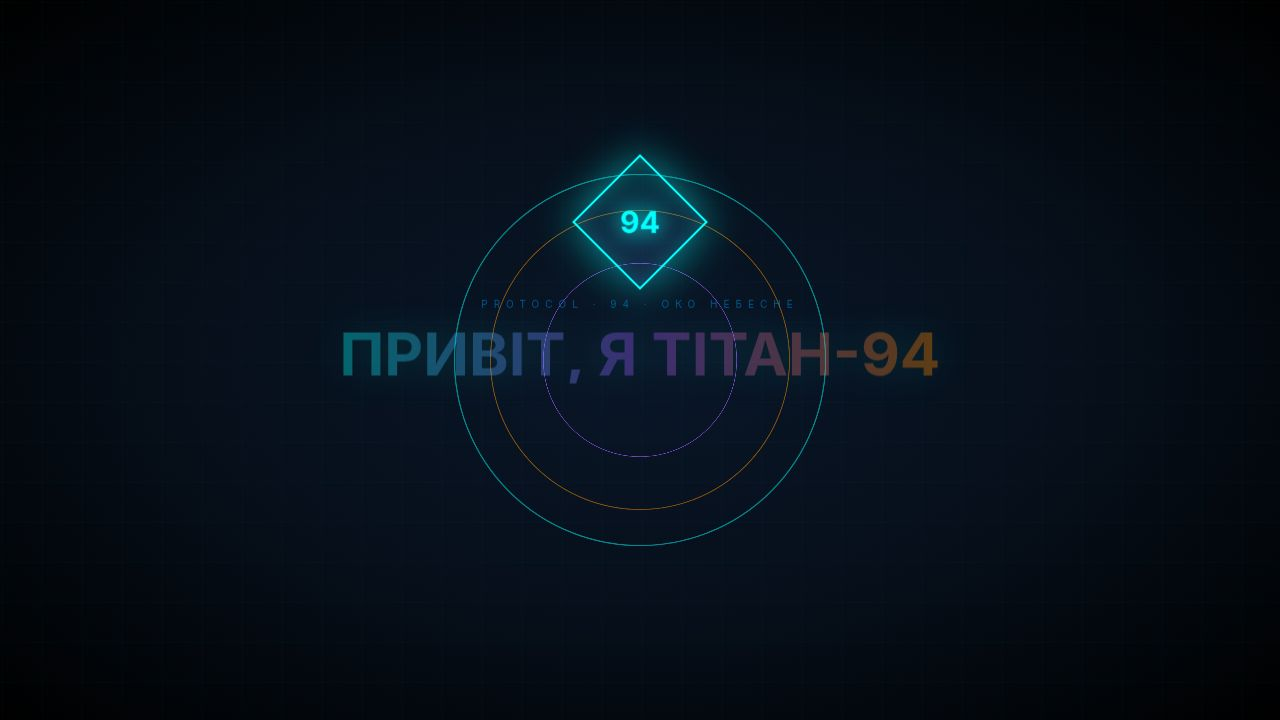
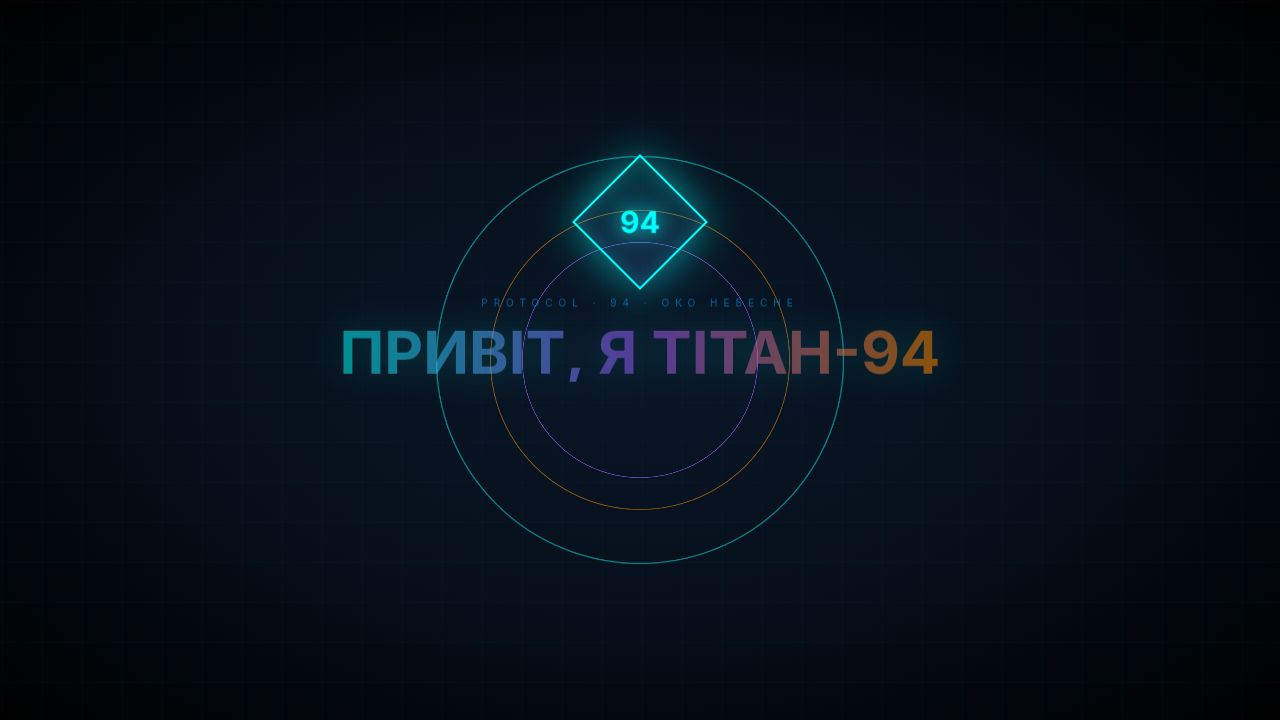
Add theme and language switching options to the interface
Introduce new UI preferences for theme (dark/light) and language (uk/en/ru) with persistent storage and associated toggles in the layout components.

Replit-Commit-Author: Agent
Replit-Commit-Session-Id: e7b6f644-fea6-464c-a664-e5827a0c588f
Replit-Commit-Checkpoint-Type: full_checkpoint
Replit-Commit-Event-Id: 2970895d-d4f5-462f-8d97-51c141f99910
Replit-Commit-Screenshot-Url: https://storage.googleapis.com/screenshot-production-us-central1/0a53e611-9f95-4b85-af95-8bab48ce9b77/e7b6f644-fea6-464c-a664-e5827a0c588f/7yR71xr
Replit-Helium-Checkpoint-Created: true

diff --git a/artifacts/enact-dashboard/src/components/layout.tsx b/artifacts/enact-dashboard/src/components/layout.tsx
@@ -1,49 +1,130 @@
 /**
- * TITAN-94 — Responsive Layout
+ * TITAN-94 — Responsive Layout with theme + language switchers.
  *
- * Desktop (>= md): static left sidebar + main content
- * Mobile (< md):   compact top bar + slide-out drawer (hamburger)
+ * - Desktop (>= md): static left sidebar + main content
+ * - Mobile (< md):   compact top bar + slide-out drawer (hamburger)
+ * - Theme: dark (default) / light, toggled via Sun-Moon button (top-right)
+ * - Language: uk (default) / en / ru, toggled via globe button (top-right)
  *
- * The drawer locks body scroll when open and closes on route change / tap
- * outside, matching native Telegram Mini App expectations.
+ * Both prefs persist in localStorage via lib/ui-prefs.ts.
  */
 import { Link, useLocation } from "wouter";
-import { useEffect, useState } from "react";
+import { useEffect, useRef, useState } from "react";
 import {
   Activity, Briefcase, PlusCircle, ExternalLink,
   Eye, Shield, DollarSign, Brain, Heart, FileCode, Cpu,
   Dna, BarChart3, Sparkles, Bot, Code2, TrendingUp, Key, KeyRound, Crown,
-  Menu, X,
+  Menu, X, Sun, Moon, Languages,
 } from "lucide-react";
 import { cn } from "@/lib/utils";
+import { useTheme, useLang, t, type Lang } from "@/lib/ui-prefs";
 
-const NAV_ITEMS = [
-  { href: "/",          label: "Command Center",  icon: Cpu,        group: "TITAN-94" },
-  { href: "/threats",   label: "Threats",         icon: Shield,     group: "TITAN-94" },
-  { href: "/contracts", label: "Smart Contracts", icon: FileCode,   group: "TITAN-94" },
-  { href: "/analyze",   label: "Neural Hub",      icon: Brain,      group: "TITAN-94" },
-  { href: "/evolution", label: "Evolution",       icon: Dna,        group: "TITAN-94" },
-  { href: "/immune",    label: "Immune System",   icon: Heart,      group: "TITAN-94" },
-  { href: "/analytics", label: "Analytics",       icon: BarChart3,  group: "TITAN-94" },
-  { href: "/status",    label: "Agent Status",    icon: Eye,        group: "TITAN-94" },
-  { href: "/earn",      label: "Earnings",        icon: DollarSign, group: "TITAN-94" },
-  { href: "/autotrade", label: "Auto-Trade",      icon: TrendingUp, group: "AGENT" },
-  { href: "/builder",   label: "Agent Forge",     icon: Bot,        group: "AGENT" },
-  { href: "/developer", label: "Developer Mode",  icon: Code2,      group: "AGENT" },
-  { href: "/nexus",     label: "NEXUS AI",        icon: Sparkles,   group: "AGENT" },
-  { href: "/settings",  label: "API Vault",       icon: Key,        group: "AGENT" },
-  { href: "/vault",     label: "Mobile Vault",    icon: KeyRound,   group: "AGENT" },
-  { href: "/access",    label: "Access Tiers",    icon: Crown,      group: "AGENT" },
-  { href: "/enact",     label: "ENACT Overview",  icon: Activity,   group: "ENACT" },
-  { href: "/jobs",      label: "Job Explorer",    icon: Briefcase,  group: "ENACT" },
-  { href: "/create",    label: "Create Job",      icon: PlusCircle, group: "ENACT" },
+type NavItem = { href: string; tkey: string; icon: typeof Cpu; group: "titan" | "agent" | "enact" };
+
+const NAV_ITEMS: NavItem[] = [
+  { href: "/",          tkey: "nav.command",   icon: Cpu,        group: "titan" },
+  { href: "/threats",   tkey: "nav.threats",   icon: Shield,     group: "titan" },
+  { href: "/contracts", tkey: "nav.contracts", icon: FileCode,   group: "titan" },
+  { href: "/analyze",   tkey: "nav.analyze",   icon: Brain,      group: "titan" },
+  { href: "/evolution", tkey: "nav.evolution", icon: Dna,        group: "titan" },
+  { href: "/immune",    tkey: "nav.immune",    icon: Heart,      group: "titan" },
+  { href: "/analytics", tkey: "nav.analytics", icon: BarChart3,  group: "titan" },
+  { href: "/status",    tkey: "nav.status",    icon: Eye,        group: "titan" },
+  { href: "/earn",      tkey: "nav.earn",      icon: DollarSign, group: "titan" },
+  { href: "/autotrade", tkey: "nav.autotrade", icon: TrendingUp, group: "agent" },
+  { href: "/builder",   tkey: "nav.builder",   icon: Bot,        group: "agent" },
+  { href: "/developer", tkey: "nav.developer", icon: Code2,      group: "agent" },
+  { href: "/nexus",     tkey: "nav.nexus",     icon: Sparkles,   group: "agent" },
+  { href: "/settings",  tkey: "nav.settings",  icon: Key,        group: "agent" },
+  { href: "/vault",     tkey: "nav.vault",     icon: KeyRound,   group: "agent" },
+  { href: "/access",    tkey: "nav.access",    icon: Crown,      group: "agent" },
+  { href: "/enact",     tkey: "nav.enact",     icon: Activity,   group: "enact" },
+  { href: "/jobs",      tkey: "nav.jobs",      icon: Briefcase,  group: "enact" },
+  { href: "/create",    tkey: "nav.create",    icon: PlusCircle, group: "enact" },
 ];
 
-const groups = [...new Set(NAV_ITEMS.map(n => n.group))];
+const GROUP_KEYS = { titan: "group.titan", agent: "group.agent", enact: "group.enact" } as const;
+const GROUPS = ["titan", "agent", "enact"] as const;
+
+/* ── Top-right control cluster: Theme + Language ─────────────────────── */
+function PrefsCluster({ compact = false }: { compact?: boolean }) {
+  const { theme, toggle } = useTheme();
+  const { lang, setLang } = useLang();
+  const [open, setOpen] = useState(false);
+  const ref = useRef<HTMLDivElement>(null);
+
+  useEffect(() => {
+    if (!open) return;
+    const onClick = (e: MouseEvent) => {
+      if (ref.current && !ref.current.contains(e.target as Node)) setOpen(false);
+    };
+    document.addEventListener("mousedown", onClick);
+    return () => document.removeEventListener("mousedown", onClick);
+  }, [open]);
+
+  const langs: { code: Lang; label: string; flag: string }[] = [
+    { code: "uk", label: "Українська", flag: "UA" },
+    { code: "en", label: "English",    flag: "EN" },
+    { code: "ru", label: "Русский",    flag: "RU" },
+  ];
+  const currentFlag = langs.find(l => l.code === lang)?.flag ?? "UA";
+
+  const btnSize = compact ? "p-1.5" : "p-2";
+  const iconSize = compact ? "w-4 h-4" : "w-4 h-4";
+
+  return (
+    <div className="flex items-center gap-1" ref={ref}>
+      {/* Theme toggle */}
+      <button onClick={toggle}
+        className={`${btnSize} rounded border transition-colors`}
+        style={{
+          borderColor: "rgba(0,255,255,0.3)",
+          color: "var(--titan-primary, #00FFFF)",
+          background: "transparent",
+        }}
+        aria-label={t("btn.theme", lang)}
+        title={t("btn.theme", lang)}>
+        {theme === "dark" ? <Sun className={iconSize} /> : <Moon className={iconSize} />}
+      </button>
+
+      {/* Language picker */}
+      <div className="relative">
+        <button onClick={() => setOpen(o => !o)}
+          className={`${btnSize} rounded border transition-colors flex items-center gap-1`}
+          style={{
+            borderColor: "rgba(0,255,255,0.3)",
+            color: "var(--titan-primary, #00FFFF)",
+            background: "transparent",
+          }}
+          aria-label={t("btn.lang", lang)}
+          title={t("btn.lang", lang)}>
+          <Languages className={iconSize} />
+          <span className="text-[10px] font-bold tracking-wider">{currentFlag}</span>
+        </button>
+        {open && (
+          <div className="absolute right-0 top-full mt-1 z-[100] min-w-[140px] border shadow-lg"
+            style={{ background: "#060F1A", borderColor: "rgba(0,255,255,0.3)" }}>
+            {langs.map(l => (
+              <button key={l.code}
+                onClick={() => { setLang(l.code); setOpen(false); }}
+                className="w-full text-left px-3 py-2 text-xs flex items-center gap-2 hover:bg-cyan-400/10 transition-colors"
+                style={{ color: l.code === lang ? "#00FFFF" : "rgba(207,255,255,0.7)" }}>
+                <span className="font-bold tracking-wider w-6">{l.flag}</span>
+                <span>{l.label}</span>
+                {l.code === lang && <span className="ml-auto text-[10px]">✓</span>}
+              </button>
+            ))}
+          </div>
+        )}
+      </div>
+    </div>
+  );
+}
 
 export function Layout({ children }: { children: React.ReactNode }) {
   const [location] = useLocation();
   const [drawerOpen, setDrawerOpen] = useState(false);
+  const { lang } = useLang();
 
   // Close drawer on route change
   useEffect(() => { setDrawerOpen(false); }, [location]);
@@ -60,25 +141,25 @@ export function Layout({ children }: { children: React.ReactNode }) {
       <div className="h-14 flex items-center px-5 border-b shrink-0" style={{ borderColor: "rgba(0,255,255,0.15)" }}>
         <div className="flex flex-col">
           <span className="text-base font-bold leading-tight" style={{ color: "#00FFFF" }}>◈ TITAN-94</span>
-          <span className="text-[9px] tracking-widest" style={{ color: "rgba(0,255,255,0.4)" }}>SECURITY CORE</span>
+          <span className="text-[9px] tracking-widest" style={{ color: "rgba(0,255,255,0.4)" }}>{t("tag.security", lang)}</span>
         </div>
         <div className="ml-auto flex items-center gap-1">
           <span className="w-2 h-2 rounded-full animate-pulse" style={{ background: "#00FF88" }} />
-          <span className="text-xs" style={{ color: "#00FF88" }}>LIVE</span>
+          <span className="text-xs" style={{ color: "#00FF88" }}>{t("tag.live", lang)}</span>
         </div>
         {/* Close button (only mobile drawer) */}
         <button onClick={() => setDrawerOpen(false)}
           className="md:hidden ml-2 p-1.5 -mr-1 rounded text-cyan-400/70 hover:text-cyan-300 hover:bg-cyan-400/10"
-          aria-label="Закрити меню">
+          aria-label={t("btn.menu_close", lang)}>
           <X className="w-5 h-5" />
         </button>
       </div>
 
       <nav className="flex-1 py-3 px-2 overflow-y-auto">
-        {groups.map(group => (
+        {GROUPS.map(group => (
           <div key={group} className="mb-4">
             <div className="px-3 mb-1 text-xs font-bold tracking-widest" style={{ color: "rgba(0,255,255,0.4)" }}>
-              ── {group} ──
+              ── {t(GROUP_KEYS[group], lang)} ──
             </div>
             {NAV_ITEMS.filter(n => n.group === group).map(item => {
               const isActive = location === item.href || (item.href !== "/" && location.startsWith(item.href));
@@ -96,7 +177,7 @@ export function Layout({ children }: { children: React.ReactNode }) {
                   }}
                 >
                   <Icon className="w-4 h-4 shrink-0" />
-                  {item.label}
+                  {t(item.tkey, lang)}
                 </Link>
               );
             })}
@@ -105,7 +186,7 @@ export function Layout({ children }: { children: React.ReactNode }) {
       </nav>
 
       <div className="p-4 border-t text-xs shrink-0" style={{ borderColor: "rgba(0,255,255,0.15)" }}>
-        <div className="mb-2" style={{ color: "rgba(0,255,255,0.4)" }}>── CONTRACTS ──</div>
+        <div className="mb-2" style={{ color: "rgba(0,255,255,0.4)" }}>── {t("tag.contracts", lang)} ──</div>
         <div className="space-y-1">
           <a href="https://tonviewer.com/EQAFHodWCzrYJTbrbJp1lMDQLfypTHoJCd0UcerjsdxPECjX"
             target="_blank" rel="noreferrer"
@@ -123,7 +204,7 @@ export function Layout({ children }: { children: React.ReactNode }) {
         <div className="mt-3" style={{ color: "rgba(207,255,255,0.4)", fontSize: "10px" }}>
           <div className="flex items-center gap-1">
             <span className="w-1.5 h-1.5 rounded-full inline-block" style={{ background: "#00FF88" }} />
-            <span>ORGANISM ONLINE</span>
+            <span>{t("tag.organism", lang)}</span>
           </div>
           <div className="opacity-60 mt-1">Gemini 2.5 Flash · 4 Engines</div>
           <div className="opacity-60">Active</div>
@@ -164,21 +245,30 @@ export function Layout({ children }: { children: React.ReactNode }) {
       <main className="flex-1 flex flex-col h-screen overflow-hidden min-w-0" style={{ background: "#030D18" }}>
 
         {/* MOBILE TOP BAR */}
-        <div className="md:hidden h-12 flex items-center px-3 border-b shrink-0 z-40"
+        <div className="md:hidden h-12 flex items-center px-3 border-b shrink-0 z-40 gap-2"
           style={{ background: "#060F1A", borderColor: "rgba(0,255,255,0.15)" }}>
           <button onClick={() => setDrawerOpen(true)}
             className="p-2 -ml-1 rounded text-cyan-400 hover:bg-cyan-400/10"
-            aria-label="Відкрити меню">
+            aria-label={t("btn.menu_open", lang)}>
             <Menu className="w-5 h-5" />
           </button>
-          <div className="ml-2 flex flex-col">
+          <div className="flex flex-col">
             <span className="text-sm font-bold leading-none" style={{ color: "#00FFFF" }}>◈ TITAN-94</span>
-            <span className="text-[8px] tracking-widest leading-tight mt-0.5" style={{ color: "rgba(0,255,255,0.4)" }}>SECURITY CORE</span>
+            <span className="text-[8px] tracking-widest leading-tight mt-0.5" style={{ color: "rgba(0,255,255,0.4)" }}>{t("tag.security", lang)}</span>
           </div>
-          <div className="ml-auto flex items-center gap-1">
-            <span className="w-1.5 h-1.5 rounded-full animate-pulse" style={{ background: "#00FF88" }} />
-            <span className="text-[10px]" style={{ color: "#00FF88" }}>LIVE</span>
+          <div className="ml-auto flex items-center gap-2">
+            <PrefsCluster compact />
+            <div className="flex items-center gap-1">
+              <span className="w-1.5 h-1.5 rounded-full animate-pulse" style={{ background: "#00FF88" }} />
+              <span className="text-[10px]" style={{ color: "#00FF88" }}>{t("tag.live", lang)}</span>
+            </div>
           </div>
+        </div>
+
+        {/* DESKTOP TOP BAR (just the prefs cluster) */}
+        <div className="hidden md:flex h-10 items-center justify-end px-4 border-b shrink-0 z-40"
+          style={{ background: "rgba(6,15,26,0.6)", borderColor: "rgba(0,255,255,0.1)" }}>
+          <PrefsCluster />
         </div>
 
         <div className="flex-1 overflow-y-auto">

diff --git a/artifacts/enact-dashboard/src/lib/ui-prefs.ts b/artifacts/enact-dashboard/src/lib/ui-prefs.ts
@@ -1,0 +1,102 @@
+/**
+ * UI Preferences — theme (dark/light) and language (uk/en/ru).
+ *
+ * Persisted in localStorage. Theme is also pushed to <html data-theme>
+ * so CSS can override variables. Language is exposed via the `t()`
+ * helper for translatable UI strings.
+ */
+import { useEffect, useState, useCallback } from "react";
+
+export type Theme = "dark" | "light";
+export type Lang  = "uk" | "en" | "ru";
+
+const THEME_KEY = "titan94.theme";
+const LANG_KEY  = "titan94.lang";
+
+function readTheme(): Theme {
+  if (typeof window === "undefined") return "dark";
+  const v = localStorage.getItem(THEME_KEY);
+  return v === "light" ? "light" : "dark";
+}
+
+function readLang(): Lang {
+  if (typeof window === "undefined") return "uk";
+  const v = localStorage.getItem(LANG_KEY);
+  if (v === "en" || v === "ru" || v === "uk") return v;
+  // Auto-detect from browser
+  const nav = navigator.language?.toLowerCase() || "";
+  if (nav.startsWith("ru")) return "ru";
+  if (nav.startsWith("en")) return "en";
+  return "uk";
+}
+
+function applyTheme(theme: Theme) {
+  if (typeof document === "undefined") return;
+  document.documentElement.setAttribute("data-theme", theme);
+  document.documentElement.style.colorScheme = theme;
+}
+
+export function useTheme() {
+  const [theme, setThemeState] = useState<Theme>(readTheme);
+  useEffect(() => { applyTheme(theme); }, [theme]);
+  const setTheme = useCallback((t: Theme) => {
+    localStorage.setItem(THEME_KEY, t);
+    setThemeState(t);
+  }, []);
+  const toggle = useCallback(() => {
+    setTheme(theme === "dark" ? "light" : "dark");
+  }, [theme, setTheme]);
+  return { theme, setTheme, toggle };
+}
+
+export function useLang() {
+  const [lang, setLangState] = useState<Lang>(readLang);
+  const setLang = useCallback((l: Lang) => {
+    localStorage.setItem(LANG_KEY, l);
+    setLangState(l);
+  }, []);
+  return { lang, setLang };
+}
+
+// ── Translation dictionary ─────────────────────────────────
+type Dict = Record<string, Record<Lang, string>>;
+
+const DICT: Dict = {
+  "nav.command":   { uk: "Командний центр",  en: "Command Center", ru: "Командный центр" },
+  "nav.threats":   { uk: "Загрози",          en: "Threats",        ru: "Угрозы" },
+  "nav.contracts": { uk: "Смартконтракти",   en: "Smart Contracts",ru: "Смартконтракты" },
+  "nav.analyze":   { uk: "Нейрохаб",         en: "Neural Hub",     ru: "Нейрохаб" },
+  "nav.evolution": { uk: "Еволюція",         en: "Evolution",      ru: "Эволюция" },
+  "nav.immune":    { uk: "Імунна система",   en: "Immune System",  ru: "Иммунная система" },
+  "nav.analytics": { uk: "Аналітика",        en: "Analytics",      ru: "Аналитика" },
+  "nav.status":    { uk: "Статус агента",    en: "Agent Status",   ru: "Статус агента" },
+  "nav.earn":      { uk: "Заробіток",        en: "Earnings",       ru: "Заработок" },
+  "nav.autotrade": { uk: "Авто-трейд",       en: "Auto-Trade",     ru: "Авто-трейд" },
+  "nav.builder":   { uk: "Кузня агентів",    en: "Agent Forge",    ru: "Кузня агентов" },
+  "nav.developer": { uk: "Режим розробника", en: "Developer Mode", ru: "Режим разработчика" },
+  "nav.nexus":     { uk: "NEXUS AI",         en: "NEXUS AI",       ru: "NEXUS AI" },
+  "nav.settings":  { uk: "API сейф",         en: "API Vault",      ru: "API сейф" },
+  "nav.vault":     { uk: "Мобільний сейф",   en: "Mobile Vault",   ru: "Мобильный сейф" },
+  "nav.access":    { uk: "Тарифи доступу",   en: "Access Tiers",   ru: "Тарифы доступа" },
+  "nav.enact":     { uk: "ENACT огляд",      en: "ENACT Overview", ru: "ENACT обзор" },
+  "nav.jobs":      { uk: "Робочі завдання",  en: "Job Explorer",   ru: "Задания" },
+  "nav.create":    { uk: "Створити завдання",en: "Create Job",     ru: "Создать задание" },
+
+  "group.titan":   { uk: "TITAN-94",         en: "TITAN-94",       ru: "TITAN-94" },
+  "group.agent":   { uk: "АГЕНТ",            en: "AGENT",          ru: "АГЕНТ" },
+  "group.enact":   { uk: "ENACT",            en: "ENACT",          ru: "ENACT" },
+
+  "tag.live":      { uk: "ОНЛАЙН",           en: "LIVE",           ru: "ОНЛАЙН" },
+  "tag.organism":  { uk: "ОРГАНІЗМ ОНЛАЙН",  en: "ORGANISM ONLINE",ru: "ОРГАНИЗМ ОНЛАЙН" },
+  "tag.contracts": { uk: "КОНТРАКТИ",        en: "CONTRACTS",      ru: "КОНТРАКТЫ" },
+  "tag.security":  { uk: "ЯДРО БЕЗПЕКИ",     en: "SECURITY CORE",  ru: "ЯДРО БЕЗОПАСНОСТИ" },
+
+  "btn.theme":     { uk: "Тема",             en: "Theme",          ru: "Тема" },
+  "btn.lang":      { uk: "Мова",             en: "Language",       ru: "Язык" },
+  "btn.menu_open": { uk: "Відкрити меню",    en: "Open menu",      ru: "Открыть меню" },
+  "btn.menu_close":{ uk: "Закрити меню",     en: "Close menu",     ru: "Закрыть меню" },
+};
+
+export function t(key: string, lang: Lang): string {
+  return DICT[key]?.[lang] ?? key;
+}

diff --git a/artifacts/enact-dashboard/src/index.css b/artifacts/enact-dashboard/src/index.css
@@ -541,3 +541,40 @@
   to   { transform: translateX(0);     opacity: 1; }
 }
 .animate-slide-in { animation: slideIn 0.18s ease-out; }
+
+/* ── Light theme overrides ── */
+html[data-theme="light"] {
+  --titan-bg:      #F5F8FB;
+  --titan-primary: #0066AA;
+  --titan-amber:   #B86C00;
+  background: #F5F8FB !important;
+  color: #1B2530 !important;
+}
+html[data-theme="light"] body { background: #F5F8FB !important; color: #1B2530 !important; }
+html[data-theme="light"] ::-webkit-scrollbar-track { background: #E5ECF2; }
+html[data-theme="light"] ::-webkit-scrollbar-thumb { background: rgba(0,102,170,0.3); }
+html[data-theme="light"] ::-webkit-scrollbar-thumb:hover { background: rgba(0,102,170,0.55); }
+
+/* Re-tone the cyber-cyan inline-styled surfaces in light mode */
+html[data-theme="light"] [style*="background: #030D18"],
+html[data-theme="light"] [style*="background:#030D18"] { background: #F5F8FB !important; }
+html[data-theme="light"] [style*="background: #060F1A"],
+html[data-theme="light"] [style*="background:#060F1A"] { background: #FFFFFF !important; }
+html[data-theme="light"] [style*="color: #CFFFFF"],
+html[data-theme="light"] [style*="color:#CFFFFF"] { color: #1B2530 !important; }
+html[data-theme="light"] [style*="color: #00FFFF"],
+html[data-theme="light"] [style*="color:#00FFFF"] { color: #0066AA !important; }
+html[data-theme="light"] [style*="color: #00FF88"],
+html[data-theme="light"] [style*="color:#00FF88"] { color: #00884E !important; }
+html[data-theme="light"] [style*="border-color: rgba(0,255,255,0.15)"],
+html[data-theme="light"] [style*="borderColor: \"rgba(0,255,255,0.15)\""] { border-color: rgba(0,102,170,0.18) !important; }
+html[data-theme="light"] [style*="rgba(0,255,255,0.4)"]  { color: rgba(0,102,170,0.65) !important; }
+html[data-theme="light"] [style*="rgba(207,255,255,0.6)"] { color: rgba(27,37,48,0.78) !important; }
+html[data-theme="light"] [style*="rgba(207,255,255,0.5)"] { color: rgba(27,37,48,0.65) !important; }
+html[data-theme="light"] [style*="rgba(207,255,255,0.4)"] { color: rgba(27,37,48,0.55) !important; }
+html[data-theme="light"] [style*="rgba(207,255,255,0.25)"]{ color: rgba(27,37,48,0.4)  !important; }
+
+/* Disable the dark scanlines overlay in light mode */
+html[data-theme="light"] [style*="repeating-linear-gradient(0deg, transparent, transparent 2px, rgba(0,0,0,0.03)"] {
+  display: none !important;
+}